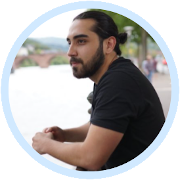
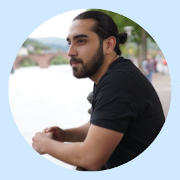
Update

Changed region(s): [[0.0, 0.0, 1.0, 1.0], [0.0833, 0.3056, 0.1111, 0.3333], [0.0556, 0.3611, 0.0833, 0.3889]]

diff --git a/css/style.css b/css/style.css
@@ -3,7 +3,7 @@
 html {
   font-family: "Lato", sans-serif;
   font-size: calc(16px + 0.2vw);
-  background-color: #eaf5ff;
+  background-color: #fdfeff;
 }
 
 body {
@@ -14,13 +14,13 @@ body {
 }
 
 a:hover {
-  box-shadow: 0px 4px 0px 0px #d1e9ff;
-  outline: 4px solid transparent;
+  box-shadow: 0px 2px 0px 0px #d1e9ff;
+  outline: 2px solid transparent;
 }
 
 a:focus {
-  box-shadow: 0px 0px 0px 4px #d1e9ff;
-  outline: 4px solid transparent;
+  box-shadow: 0px 0px 0px 2px #d1e9ff;
+  outline: 2px solid transparent;
 }
 
 h1,
@@ -52,7 +52,7 @@ p {
 }
 
 .header-image {
-  border: 6px solid #d1e9ff;
+  border: 2px solid #d1e9ff;
   width: 88px;
   height: auto;
   border-radius: 50%;
@@ -74,8 +74,11 @@ p {
 }
 
 .header-description {
+  display: inline-block;
+  margin-top: 4px;
   font-size: 0.8rem;
   font-weight: 300;
+  line-height: 1rem;
 }
 
 .header-navigation {
@@ -165,13 +168,17 @@ ol li {
   text-decoration: none;
   font-weight: 300;
   color: #1e2021;
-  box-shadow: 0px 4px 0px 0px #d1e9ff;
-  outline: 4px solid transparent;
+  box-shadow: 0px 2px 0px 0px #d1e9ff;
+  outline: 2px solid transparent;
 }
 
 .main a:focus {
-  box-shadow: 0px 0px 0px 4px #d1e9ff;
-  outline: 4px solid transparent;
+  box-shadow: 0px 0px 0px 2px #d1e9ff;
+  outline: 2px solid transparent;
+}
+
+.main b {
+  font-weight: 400;
 }
 
 blockquote {
@@ -188,14 +195,18 @@ pre {
   white-space: normal;
 }
 
-pre code {
+code {
   color: #fefefe;
-  display: block;
   background-color: #1e2021;
+  padding: 0 4px;
+  font-weight: 300;
+}
+
+pre code {
+  display: block;
   white-space: pre;
   overflow-x: scroll;
   padding: 0 1.6rem;
-  font-weight: 300;
 }
 
 .pub-time {
@@ -261,10 +272,6 @@ ul.article-list li h2 a {
 }
 
 @media only screen and (min-width: 768px) {
-  a {
-    padding: 2px;
-  }
-
   .header-image {
     width: 124px;
   }

diff --git a/blog/how-to-create-a-website-with-eleventy/index.html b/blog/how-to-create-a-website-with-eleventy/index.html
@@ -3,7 +3,7 @@
 <head>
     <meta charset="utf-8">
     <meta name="viewport" content="width=device-width, initial-scale=1.0">
-        <title> How to create a website with <i>eleventy</i> - Sezer Ünlü | B.Sc. Computer scientist & front-end web developer</title>
+        <title> How to create a website with eleventy - Sezer Ünlü | B.Sc. Computer scientist & front-end web developer</title>
     <link rel="preconnect" href="https://fonts.gstatic.com">
     <link href="https://fonts.googleapis.com/css2?family=Lato:ital,wght@0,300;0,400;0,900;1,300;1,400;1,900&display=swap" rel="stylesheet">
     <link rel="stylesheet" href="/css/style.css">
@@ -33,13 +33,29 @@
         </div>
     </header>
     <main class="main">
-        <h1 class="h1">How to create a website with <i>eleventy</i></h1>
-<time class="pub-time" datetime="2021-05-10" pubdate>May 10, 2021</time>
+        <h1 class="h1">How to create a website with eleventy</h1>
+<span class="pub-time">Published on <time datetime="2021-05-10" pubdate>May 10, 2021</time></span>
 <p>
     <a href="https://www.11ty.dev/">Eleventy</a> is a static site generator and I created this website with it. It creates for every page a static html file.
 </p>
 <p>And here is the procedure to create a website with eleventy:</p>
-<p>coming soon..</p>
+<h2>1. Create a folder for your website files</h2>
+<p>Create a folder and name it what you want. I name it <b><i>my-website</i></b>.</p>
+<pre>
+<code>
+$ mkdir my-website
+
+</code>
+</pre>
+<h2>2. Install eleventy</h2>
+<p>Go into your created folder and install eleventy.</p>
+<pre>
+<code>
+$ cd my-website
+$ npm install @11ty/eleventy
+
+</code>
+</pre>
     </main>
     <footer class="footer">
         <p class="footer-notes">© 2021 Sezer Ünlü</p>

diff --git a/blog/second-article/index.html b/blog/second-article/index.html
@@ -34,7 +34,7 @@
     </header>
     <main class="main">
         <h1 class="h1">It's my second article here!</h1>
-<time class="pub-time" datetime="2021-05-09" pubdate>May 09, 2021</time>
+<span class="pub-time">Published on <time datetime="2021-05-09" pubdate>May 09, 2021</time></span>
 <p>
     Lorem ipsum dolor sit amet, consectetur adipiscing elit. Sed sit amet ultrices odio. <a href="#">Cras ut leo nunc</a>. Praesent orci enim, pellentesque sed orci id, pretium semper massa. Proin mattis quam quis est cursus, ut aliquet odio pretium. <a href="#">Praesent bibendum</a> lacus velit, et congue sapien condimentum in. Nulla maximus odio ut tellus fermentum tempor non at felis. Pellentesque eget leo turpis. Maecenas facilisis scelerisque nisi nec placerat.
 </p>

diff --git a/blog/hello-world/index.html b/blog/hello-world/index.html
@@ -34,7 +34,7 @@
     </header>
     <main class="main">
         <h1 class="h1">Hello world!</h1>
-<time class="pub-time" datetime="2021-05-10" pubdate>May 10, 2021</time>
+<span class="pub-time">Published on <time datetime="2021-05-10" pubdate>May 10, 2021</time></span>
 <p>
     Lorem ipsum dolor sit amet, consectetur adipiscing elit. Sed sit amet ultrices odio. <a href="#">Cras ut leo nunc</a>. Praesent orci enim, pellentesque sed orci id, pretium semper massa. Proin mattis quam quis est cursus, ut aliquet odio pretium. <a href="#">Praesent bibendum</a> lacus velit, et congue sapien condimentum in. Nulla maximus odio ut tellus fermentum tempor non at felis. Pellentesque eget leo turpis. Maecenas facilisis scelerisque nisi nec placerat.
 </p>

diff --git a/blog/index.html b/blog/index.html
@@ -37,8 +37,8 @@
 <ul class="article-list">
     
     <li>
-        <h2 class="article-list-title"><a href="/blog/how-to-create-a-website-with-eleventy/">How to create a website with <i>eleventy</i></a></h2>
-        <time class="pub-time" datetime="2021-05-10" pubdate>10 May, 2021</time>
+        <h2 class="article-list-title"><a href="/blog/how-to-create-a-website-with-eleventy/">How to create a website with eleventy</a></h2>
+        <span class="pub-time">Published on <time datetime="2021-05-10" pubdate>10 May, 2021</time></span>
         
     </li>
     

diff --git a/index.html b/index.html
@@ -49,8 +49,8 @@
 <ul class="article-list">
     
     <li>
-        <h2 class="article-list-title"><a href="/blog/how-to-create-a-website-with-eleventy/">How to create a website with <i>eleventy</i></a></h2>
-        <time class="pub-time" datetime="2021-05-10" pubdate>10 May, 2021</time>
+        <h2 class="article-list-title"><a href="/blog/how-to-create-a-website-with-eleventy/">How to create a website with eleventy</a></h2>
+        <span class="pub-time">Published on <time datetime="2021-05-10" pubdate>10 May, 2021</time></span>
         
     </li>
     
